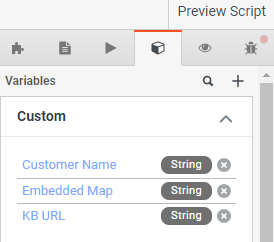
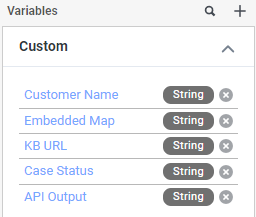
added actions section

diff --git a/content/020-Getting-Started/30_Actions.md b/content/020-Getting-Started/30_Actions.md
@@ -6,4 +6,63 @@ weight: 30
 
 ## Built-in and Custom Actions
 
-So we added a button and an input field without discussing color coding or alignment, which means these must have been put there for another reason!
+By navigating to the Play/Action icon on the upper right, we can see a list of all built in actions and have the ability to create custom actions.
+
+The script editor has various built-in actions that can be mapped to different constructors, such as transfer, change page etc. For this workshop, we will be creating a custom action by selecting the "**+**" icon.
+
+![image](/images/scriptactions.PNG)
+
+We will name our action "Update Case", select **Add Step**, and select **Execute Data Action**, under Data Actions.
+
+![image](/images/scriptactionstep1.PNG)
+
+Search for your web services data action integration in the Category field, and select the Data Action you published earlier.
+
+Within the input field we will type "**{{**" and select our Case Status variable. Then select your API Output variable in the output field.
+
+Your Execute Data Action should look as such -
+
+![image](/images/scriptactiondata.PNG)
+
+Select **Add Step**, and select **If/Else** to add another step to our action.
+
+If/Else contructors allow us to compare data and execute different actions depending on the outcome. 
+
+They are simply logical operators that allow us to say things like "**If** this equals this, **Then** do this, or **Else** do this.
+
+We will set out **Left Hand Side** to your **API Output** variable.
+
+Our **Operator** will be **Equals**.
+
+And our **Right Hand Side** will be set to "Updated Successfully"
+
+What we've just constructed is the **If** portion of our If/else statement. At the top of the image below, the action constructor tells us what the logic we entered equates out to - 
+
+![image](/images/scriptactionifelse.PNG)
+
+> **If the output from our API equals "Updated Successfully" Then...**
+
+For this workshop we will trigger an alert to the agent to the agent to let them know the case updated successfully, however you can trigger numerous additional **Then** steps, including another custom action.
+
+With the If section finished, we will select **Add Step** directly beneath it and select **Scripter > Alert**, and enter in something like "Case Updated Successfully" (you could also put your API Output variable here) this will be our **Then** action. 
+
+![image](/images/scriptactionif.PNG)
+
+Expand the If/Else action by clicking the If box and add a step under **Else**. You will repeat the steps of adding a scripter alert but this time we will provide a value of "Failed to Update Case" (in a real world scenario, we would likely map the output response here).
+
+**If** your action looks like the image below **Then** select Save, **Else**, make your action look like the image below (see what we did there?) -
+
+![image](/images/scriptactioncomplete.PNG)
+
+We're ready to map this action!
+
+Select your input field and select your "Case Status" variable within the Value drop down. Within the Placeholder field, you can enter something like "Enter Case Status", this text will display to the agent on this field before they enter any text into it (you can see placeholder text by going into preview mode).
+
+![image](/images/scriptinputfield.PNG)
+
+Select your button, select No Action Selected under Click Action, and find your action within the custom drop down.
+
+![image](/images/scriptbuttonaction.PNG)
+
+By navigating to preview, you can now test executing this action by entering a status and clicking the button.
+

diff --git a/content/020-Getting-Started/20_Variables.md b/content/020-Getting-Started/20_Variables.md
@@ -49,13 +49,16 @@ By navigating back to the variable panel on the upper right corner, and selectin
 
 The variable constructor allows you to define whether the values of the variable will be output from the script (to use in another source) or input to the script from another source (such as an architect flow). You can also define default values to display static information if no value is defined.
 
-We will construct the following 3 variables which map directly to the data table we constructed previously, these will all be set as **Input** with no default value - 
+We will construct the following 3 string variables which map directly to the data table we constructed previously, these will all be set as **Input** with no default value - 
   * Customer Name
   * Embedded Map
   * KB URL
-  * Case Status
 
 ![image](/images/scriptcustomvariable.PNG)
+
+We will add 2 more string variables with no direction set - 
+  * Case Status
+  * API Output
 
 When you're done, you should have a list that looks like this - 
 

diff --git a/content/010-Data-Sources-and-Scripts/_index.md b/content/010-Data-Sources-and-Scripts/_index.md
@@ -1,5 +1,5 @@
 ---
-title: "Data Source construction"
+title: "Data Source Construction"
 chapter: true
 weight: 10
 ---
